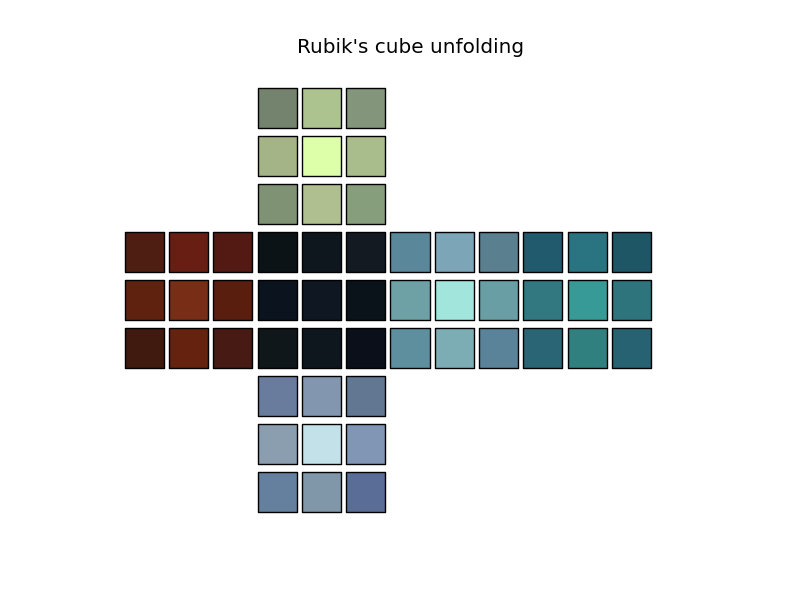
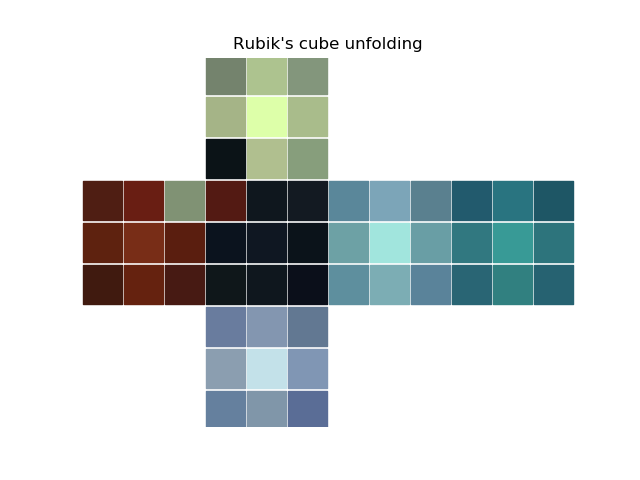
truc pas fini

Changed region(s): [[0.125, 0.0625, 0.9062, 0.9062]]

diff --git a/test.py b/test.py
@@ -34,8 +34,8 @@ def couleurCoin(data):
     tab[0].append(data[1][4])
     tab[0].append(data[2][4])
     """
-    tab[0].extend( (data[0][4], data[1][4] , data[2][4]) )
-    tab[1].extend( (data[0][4], data[1][4] , data[4][4]) )
+    tab[0].extend((data[0][4], data[1][4] , data[2][4]))
+    tab[1].extend((data[0][4], data[1][4] , data[4][4]))
     tab[2].extend((data[0][4], data[2][4] , data[3][4]))
     tab[3].extend((data[0][4], data[3][4] , data[4][4]))
 
@@ -45,6 +45,58 @@ def couleurCoin(data):
     tab[7].extend((data[5][4], data[3][4] , data[4][4]))
 
     return tab
+
+def couleurArete(data):
+    tab = []
+    for i in range(0,12):
+        tab.append([])
+
+    tab[0].extend((data[1][7],data[0][1]))
+    tab[1].extend((data[2][5],data[0][3]))
+    tab[2].extend((data[3][1],data[0][7]))
+    tab[3].extend((data[4][3],data[0][5]))
+    tab[4].extend((data[1][5],data[4][1]))
+    tab[5].extend((data[1][3],data[2][1]))
+    tab[6].extend((data[1][1],data[5][1]))
+    tab[7].extend((data[2][3],data[5][5]))
+    tab[8].extend((data[2][7],data[3][3]))
+    tab[9].extend((data[3][7],data[5][7]))
+    tab[10].extend((data[3][5],data[4][7]))
+    tab[11].extend((data[4][5],data[5][3]))
+    return tab
+
+def tabAreteCouleur(data):
+    tab = []
+    for i in range(0,12):
+        tab.append([])
+    tab[0].extend((data[1][7],data[0][1]))
+    tab[1].extend((data[2][5],data[0][3]))
+    tab[2].extend((data[3][1],data[0][7]))
+    tab[3].extend((data[4][3],data[0][5]))
+    tab[4].extend((data[1][5],data[4][1]))
+    tab[5].extend((data[1][3],data[2][1]))
+    tab[6].extend((data[1][1],data[5][1]))
+    tab[7].extend((data[2][3],data[5][5]))
+    tab[8].extend((data[2][7],data[3][3]))
+    tab[9].extend((data[3][7],data[5][7]))
+    tab[10].extend((data[3][5],data[4][7]))
+    tab[11].extend((data[4][5],data[5][3]))
+    return tab
+
+def tabCoinCouleur(data):
+    tabCoin = []
+    for k in range(0,8):
+        tabCoin.append([])
+        
+    tabCoin[0].extend((data[0][0], data[1][6], data[2][2])) 
+    tabCoin[1].extend((data[0][2], data[1][8], data[4][0]))
+    tabCoin[2].extend((data[0][6], data[2][8], data[3][0]))
+    tabCoin[3].extend((data[0][8], data[3][2], data[4][6]))
+    tabCoin[4].extend((data[3][8], data[4][8], data[5][6])) 
+    tabCoin[5].extend((data[1][2], data[4][2], data[5][0]))
+    tabCoin[6].extend((data[1][0], data[2][0], data[5][2]))
+    tabCoin[7].extend((data[2][6], data[3][6], data[5][8]))
+    return tabCoin
 
 
 def voisinHaut(i):
@@ -194,24 +246,78 @@ def draw2(data):
     m = 6
    
     color_center = []
-    tabCoin = []
+    tabPref = [] #tableau qui va stocker toutes les moyennes des coins a chaque triplet centre
+    coinPref = [] # tableau qui va stocker pour chaque coin le triplet centre qui lui correspond le plus par rapport a la moyenne des rgb
+    tabCoin = tabCoinCouleur(data)
     tab_coeff = {}
     for k in range(0,6):
       color_center.append([])
+    for k in range(0,6):  
+        tabPref.append([])
+    
+    tabCoinCheck = couleurCoin(data)
+
+
+    for i in range(0, len(tabCoin)): #parcours tous les coin 
+        for j in range(0,len(tabCoinCheck)): #parcours tous les triplets de couleurs des centre a comparer
+            print tabCoin[i], "    " , tabCoinCheck[j]
+            t, tt = choixPlusPetiteDiff(tabCoin[i], tabCoinCheck[j])
+            tabPref[i].append(t)
+
+    for i in range(0, len(tabPref)):
+        coinPref.append( choixMeileurCentre(tabPref[i]) )
+
+    tabFinal = []
+    for i in range(0,len(tabCoin)):
+        indice = coinPref[i][1]
+        tabFinal = choixPlusPetiteDiff(tabCoin[i], tabCoinCheck[indice])
+
+    tabFigure = [f, g, h, j ,k, l, m, n]
+    for i in range(1,len(tabFigure)+1):
+        tabFigure[i] = plt.figure(i)
+        for xx in range(0,3):
+            plt.scatter(xx, 0, s=800, marker='o', c=tabCoinCheck[i][xx])
+            plt.scatter(xx, 10, s=800, marker='o', c=tabFinal[i][xx])
+
+    plt.show()
+
+    """
+    f = plt.figure(1)
+
+    #for j in range (0,8):
+    for i in range(0,3):
+        plt.scatter(i, 0, s=800, marker='o', c=tabCoinCheck[0][i])
+        plt.scatter(i, 10, s=800, marker='o', c=tabaffiche[i])
+    
+    plt.scatter(x, y, s=800, marker='s', c=color)
+    plt.title('Rubik\'s cube unfolding')
+    plt.axis('off')
+    plt.savefig('unfolding.png')
       
 
-    for k in range(0,8):
-        tabCoin.append([])
-
-    tabCoin[0].append(data[0][0]) 
-    tabCoin[0].append(data[1][6])
-    tabCoin[0].append(data[2][2])
-    tabCoin[1].extend((data[0][2], data[1][8], data[4][0]))
-    tabCoin[2].extend((data[0][6], data[2][8], data[3][0]))
-    tabCoin[3].extend((data[0][8], data[3][2], data[4][6]))
+    g = plt.figure(2)
+    plt.scatter(x, y, s=800, marker='s', c=color)
+    
+    plt.show()
+    """
+    # CA OUVRE 2 FENETRE YOUPI
 
 
-    tabCoinCheck = couleurCoin(data)
+# retourne la difference la plus petite et l indice du triplet centre associe
+def choixMeilleurCentre(tabPref):
+    min = 256
+    indice = -1
+    for i in range(0, len(tabPref)):
+        if min > tabPref[i]:
+            min = tabPref[i]
+            indice = i
+    return tabPref[indice], indice
+
+
+# retourne la difference la plus petite et l'arangement de couleur qui lui correspond
+# entre les couleurs des centres et les couleurs des coins
+def choixPlusPetiteDiff(tabCoin, tabCoinCheck):
+
     tabdiffFinal = []
     for i in range(0,1):
         tabC = []
@@ -248,33 +354,16 @@ def draw2(data):
             tabC[indice][0] = 256 
             tabC[indice][1] = 256 
             tabC[indice][2] = 256 
-    
+    """
     for i in range(0,len(tabaffiche)):
         tabaffiche[i] = rgb255to01(tabaffiche[i],68)
-        tabCoinCheck[0][i] = rgb255to01(tabCoinCheck[0][i],68)
+        #tabCoinCheck[0][i] = rgb255to01(tabCoinCheck[0][i],68)
     print tabdiffFinal
-
-    f = plt.figure(1)
-
-    #for j in range (0,8):
-    for i in range(0,3):
-        plt.scatter(i, 0, s=800, marker='o', c=tabCoinCheck[0][i])
-        plt.scatter(i, 10, s=800, marker='o', c=tabaffiche[i])
     """
-    plt.scatter(x, y, s=800, marker='s', c=color)
-    plt.title('Rubik\'s cube unfolding')
-    plt.axis('off')
-    plt.savefig('unfolding.png')
-    """  
-
-    g = plt.figure(2)
-    plt.scatter(x, y, s=800, marker='s', c=color)
-    
-    plt.show()
-
-    # CA OUVRE 2 FENETRE YOUPI
-
-
+    somme = 0
+    for i in range (0, len(tadDiffFinal)):
+        somme = tabDiffFinal[i]
+    return round(somme)/3, tabaffiche
 
 def moyenneRGB(c1, c2):
     r1 = abs(c1[0] - c2[0])
